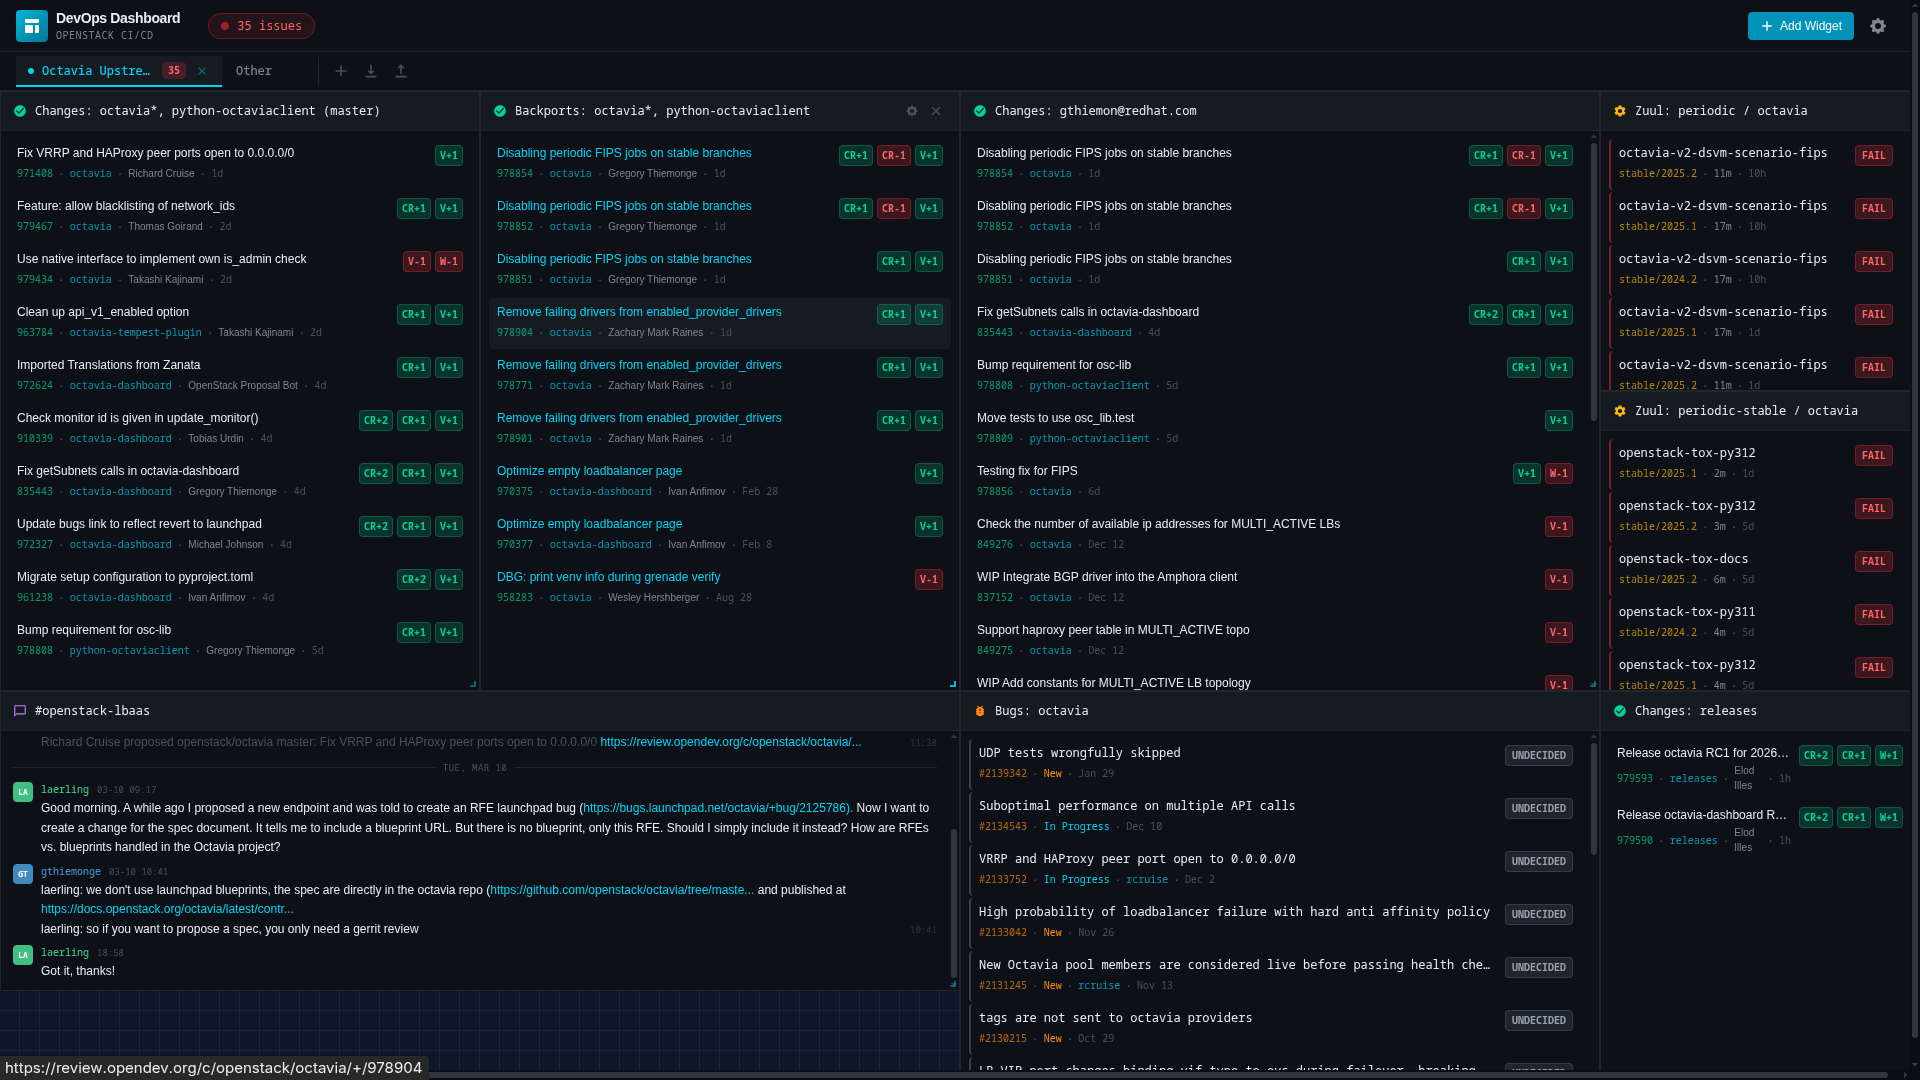
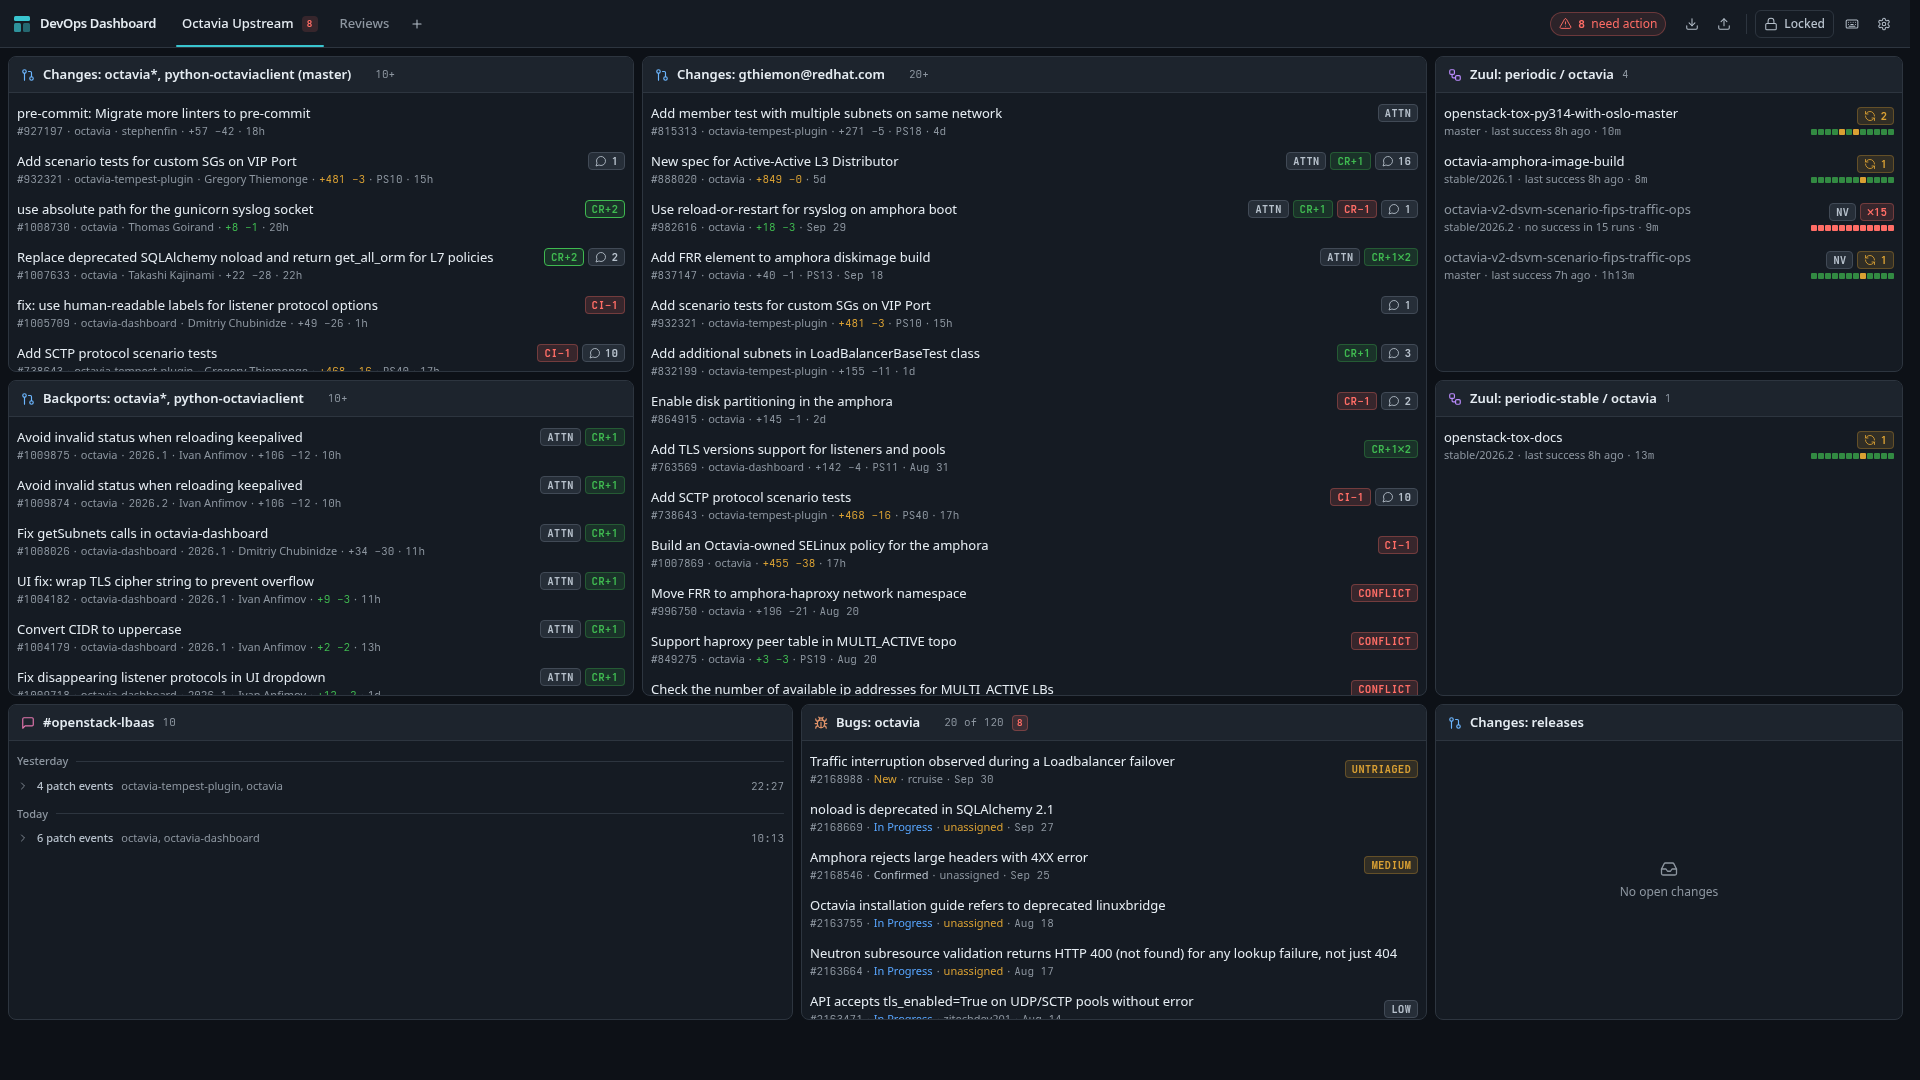
Update the README
New screenshot and feature list (dashboards, signals, Gerrit/Zuul/
Launchpad/IRC widgets, keyboard shortcuts), the build/test/lint
scripts, a security note about the unauthenticated backend and stored
credentials, the complete API table and the steps to add a widget type.

diff --git a/README.md b/README.md
@@ -1,6 +1,7 @@
 # Developer Dashboard
 
-A modular dashboard for tracking development work across Gerrit, Zuul, and other platforms.
+A dashboard for OpenStack upstream work: Gerrit reviews, Zuul periodic jobs, Launchpad bugs and IRC
+channels, with the items that need your action surfaced first.
 
 ![Dashboard Screenshot](images/screenshot.png)
 
@@ -10,12 +11,54 @@ A modular dashboard for tracking development work across Gerrit, Zuul, and other
 # Install dependencies
 npm install
 
+# Build the shared types (the frontend and backend read shared/dist)
+npm run build -w shared
+
 # Start development servers (backend + frontend)
 npm run dev
 ```
 
 - Frontend: http://localhost:5173
 - Backend: http://localhost:3001
+
+Other scripts:
+
+```bash
+npm test        # unit tests (Vitest)
+npm run lint    # ESLint on backend and frontend
+npm run build   # production build of shared, backend and frontend
+```
+
+## Features
+
+- **Dashboards as tabs**, with a drag-and-drop grid of widgets (react-grid-layout). Each tab is
+  locked by default; unlock it to add, move, resize or configure widgets. Dashboards can be
+  exported and imported as JSON.
+- **Needs-action and new-item signals**: each widget header shows its item count and how many
+  items need your action; the top bar sums them for the current dashboard, and new items (within a
+  configurable window) are marked with a dot.
+- **Gerrit widgets**: recent changes of projects/branches, your changes needing attention, another
+  user's changes, and custom queries. Each change shows one action chip (`APPROVE` when ready for
+  your Workflow +1, `CONFLICT`, `CI-1`, `ATTN` when you are in its attention set), compact votes
+  (`CR+2×2`, `CR-1`, `W+1`, your own vote outlined), unresolved comments, size and patch set.
+  Actionable changes are sorted first; WIP, DNM and bot changes are dimmed and sorted last.
+- **Zuul widget**: failing jobs of a pipeline (e.g. periodic), grouped by job and branch, with a
+  sparkline of recent results, the failure streak, the last success and a non-voting marker.
+  Automatic retries are shown as warnings.
+- **Launchpad widget**: open bugs of a project, with new (untriaged) bugs and unassigned in-progress
+  bugs highlighted.
+- **IRC widget**: recent channel messages; bot messages are collapsed into expandable groups.
+- **Keyboard shortcuts**: `1`-`9` switch dashboards, `[`/`]` previous/next, `r` refreshes all
+  widgets, `l` locks/unlocks, `a` adds a widget, `?` lists them.
+- **Configurable data sources** with optional credentials (e.g. for authenticated Gerrit access,
+  which enables the "your vote" and attention-set features).
+
+## Security
+
+There is no authentication: anyone who can reach the backend can read and change its
+configuration, including the data sources that credentials are sent to. Credentials are stored in
+plain text in the SQLite database (`backend/data/`, not committed). Run it on a trusted machine or
+network only, and prefer revocable tokens (e.g. the Gerrit HTTP password) over real passwords.
 
 ## Project Structure
 
@@ -24,45 +67,48 @@ dashboard/
 ├── backend/          # Express + TypeScript + SQLite
 │   ├── src/
 │   │   ├── db/       # Database schema and initialization
-│   │   ├── providers/ # Gerrit/Zuul API providers
+│   │   ├── providers/ # Gerrit/Zuul/Launchpad/IRC API clients
 │   │   ├── routes/   # REST API endpoints
-│   │   └── services/ # Caching and business logic
+│   │   └── services/ # Caching and logging
 │   └── data/         # SQLite database (auto-created)
 ├── frontend/         # React + TypeScript + Vite + Tailwind
 │   └── src/
 │       ├── components/
-│       │   ├── dashboard/  # Grid layout components
-│       │   ├── settings/   # Configuration modals
+│       │   ├── dashboard/  # Tabs, grid and widget frame
+│       │   ├── layout/     # Top bar
+│       │   ├── settings/   # Modals (settings, widget picker/config, shortcuts)
+│       │   ├── ui/         # Shared UI primitives (chips, rows, buttons, forms, icons)
 │       │   └── widgets/    # Widget implementations
-│       ├── hooks/          # React Query hooks
+│       ├── hooks/          # React Query hooks, keyboard shortcuts
+│       ├── lib/            # Formatting and other helpers
 │       ├── services/       # API client
 │       └── store/          # Zustand state
 └── shared/           # Shared TypeScript types
 ```
 
-## Features
-
-- **Drag-and-drop dashboard**: Arrange widgets freely with react-grid-layout
-- **Gerrit widgets**: Recent changes, my changes needing attention, custom queries
-- **Zuul widgets**: Failed periodic jobs
-- **Configurable data sources**: Add multiple Gerrit/Zuul instances
-- **Optional authentication**: Store credentials for authenticated Gerrit access
-- **Auto-refresh**: Widgets refresh automatically based on configured interval
-
 ## API Endpoints
 
 | Endpoint | Description |
 |----------|-------------|
-| `GET /api/v1/widgets` | List all widgets |
-| `POST /api/v1/widgets` | Create a widget |
-| `PUT /api/v1/widgets/:id` | Update a widget |
-| `DELETE /api/v1/widgets/:id` | Delete a widget |
-| `GET /api/v1/layout` | Get dashboard layout |
-| `PUT /api/v1/layout` | Save dashboard layout |
-| `GET /api/v1/datasources` | List data sources |
-| `GET /api/v1/proxy/gerrit/changes` | Proxy Gerrit queries |
-| `GET /api/v1/proxy/zuul/builds` | Proxy Zuul queries |
-| `GET /api/v1/summary` | Get dashboard summary |
+| `GET/POST /api/v1/dashboards` | List / create dashboards |
+| `GET/PUT/DELETE /api/v1/dashboards/:id` | Get / update (name, layout) / delete a dashboard |
+| `POST /api/v1/dashboards/reorder` | Reorder dashboards |
+| `GET /api/v1/dashboards/:id/export`, `POST /api/v1/dashboards/import` | Export / import a dashboard |
+| `GET/POST /api/v1/widgets` | List (`?dashboardId=`) / create widgets |
+| `GET/PUT/DELETE /api/v1/widgets/:id` | Get / update / delete a widget |
+| `GET/POST /api/v1/datasources`, `GET/PUT/DELETE /api/v1/datasources/:id` | Data sources |
+| `GET/POST /api/v1/credentials`, `GET/PUT/DELETE /api/v1/credentials/:dataSourceId` | Credentials (passwords are never returned) |
+| `GET /api/v1/proxy/gerrit/changes` | Proxy Gerrit queries (`q`, `n`) |
+| `GET /api/v1/proxy/gerrit/self` | Authenticated Gerrit account (`null` without credentials) |
+| `GET /api/v1/proxy/zuul/builds` | Proxy Zuul builds |
+| `GET /api/v1/proxy/launchpad/bugs` | Proxy Launchpad bugs (total in `X-Total-Count`) |
+| `GET /api/v1/proxy/irc/messages` | Proxy IRC channel logs |
+| `POST /api/v1/proxy/cache/refresh` | Drop the short-lived proxy cache (manual refresh) |
+| `GET/PUT /api/v1/layout` | Legacy single-layout API (superseded by dashboards) |
+| `GET /health` | Health check |
+
+All proxy endpoints take a `dataSourceId` and are cached in the backend (5 minutes by default,
+`CACHE_TTL`).
 
 ## Verification
 
@@ -76,8 +122,12 @@ curl "http://localhost:3001/api/v1/proxy/zuul/builds?project=openstack/octavia&p
 
 ## Adding New Widget Types
 
-1. Add type to `shared/types/index.ts`
-2. Create widget component in `frontend/src/components/widgets/`
-3. Register in `WidgetContainer.tsx` switch statement
-4. Add to `WidgetPicker.tsx` widget types array
-5. Update backend providers if needed
+1. Add the type to `WidgetType` in `shared/types/index.ts` (and to the seed in
+   `backend/src/db/schema.sql`)
+2. Create the widget component in `frontend/src/components/widgets/`, built from the primitives in
+   `components/ui/`, and report its signals with `reportWidgetSignals`
+3. Register it in `frontend/src/components/dashboard/WidgetContainer.tsx` (source icon, title,
+   search link, render switch)
+4. Add it to the catalog in `frontend/src/components/settings/widgetTypes.ts` and its fields to
+   `WidgetConfigFields.tsx`
+5. Update the backend providers and proxy routes if it needs new data
